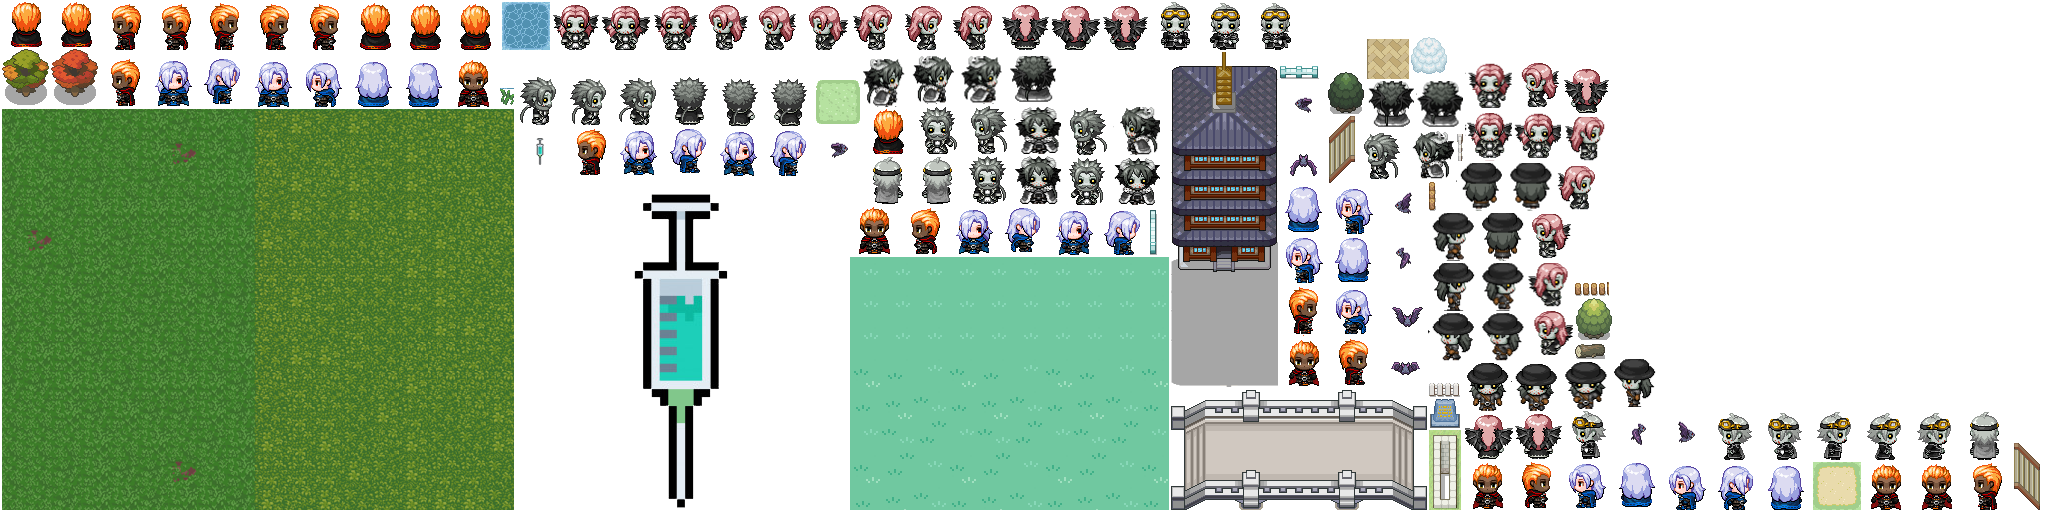
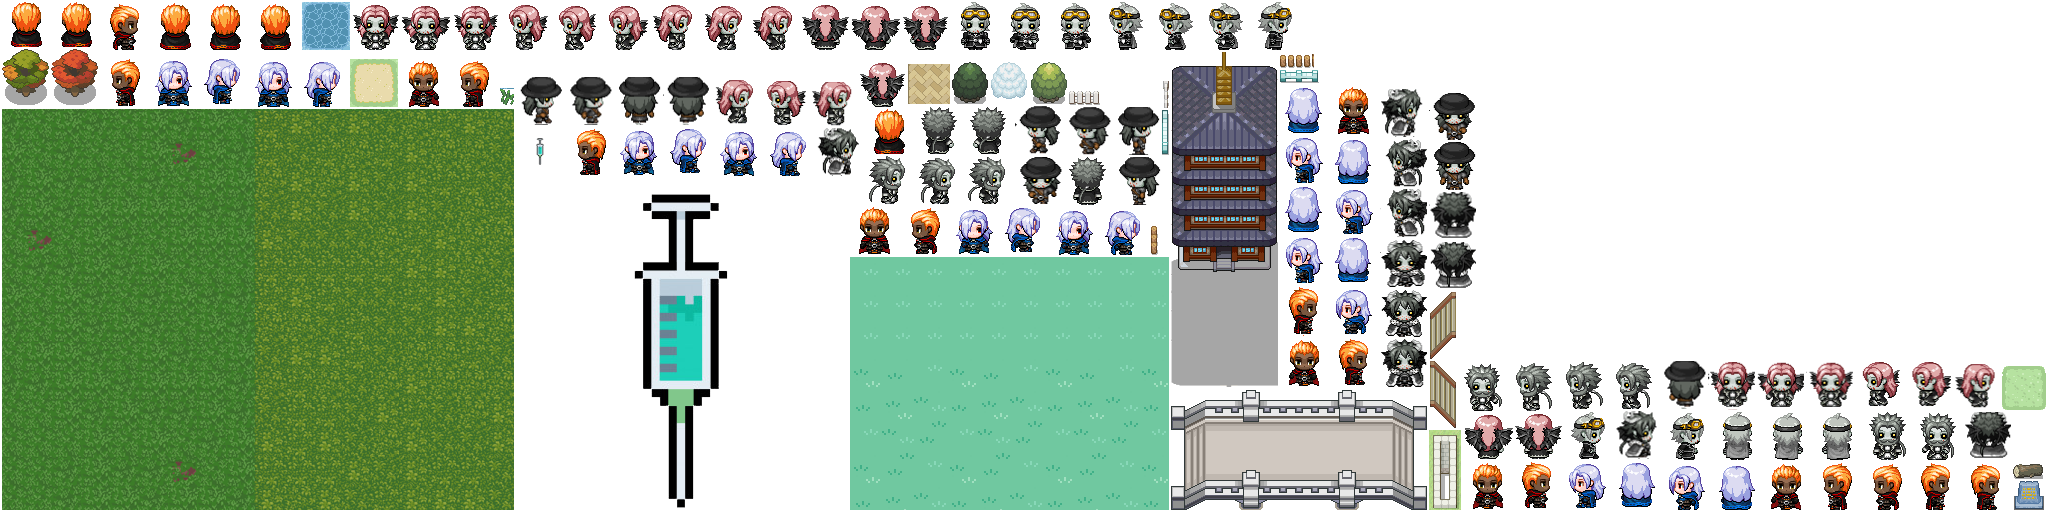
bat fixed

Changed region(s): [[0.0312, 0.0, 1.0, 1.0], [0.5312, 0.4375, 0.5625, 0.5]]

diff --git a/PlaguePandemicsBats/Bat.cs b/PlaguePandemicsBats/Bat.cs
@@ -11,6 +11,7 @@ namespace PlaguePandemicsBats
     class Bat : Enemy
     {
         private const float _batWidth = 0.2f;
+        private const float _batHeight = 0.3f;
 
         public Bat(Game1 game) : base(game)
         {
@@ -18,7 +19,7 @@ namespace PlaguePandemicsBats
             _spritesDirection = new Dictionary<Direction, Sprite[]>
             {
                 [Direction.Up] = new [] {new Sprite(game, "BatU", width: _batWidth), new Sprite(game, "BatUD", width: _batWidth), new Sprite(game, "BatUU", width: _batWidth) },
-                [Direction.Down] = new[] { new Sprite(game, "BatFront", width: _batWidth), new Sprite(game, "BatFrontD", width: _batWidth), new Sprite(game, "BatFrontU", width: _batWidth) },
+                [Direction.Down] = new[] { new Sprite(game, "BatFront", width: _batWidth, height: _batHeight), new Sprite(game, "BatFrontD", width: _batWidth, height: _batHeight), new Sprite(game, "BatFrontU", width: _batWidth, height: _batHeight) },
                 [Direction.Left] = new[] { new Sprite(game, "BatL", width: _batWidth), new Sprite(game, "BatLD", width: _batWidth), new Sprite(game, "BatLU", width: _batWidth) },
                 [Direction.Right] = new[] { new Sprite(game, "BatR", width: _batWidth), new Sprite(game, "BatRD", width: _batWidth), new Sprite(game, "BatRU", width: _batWidth) }
             };
